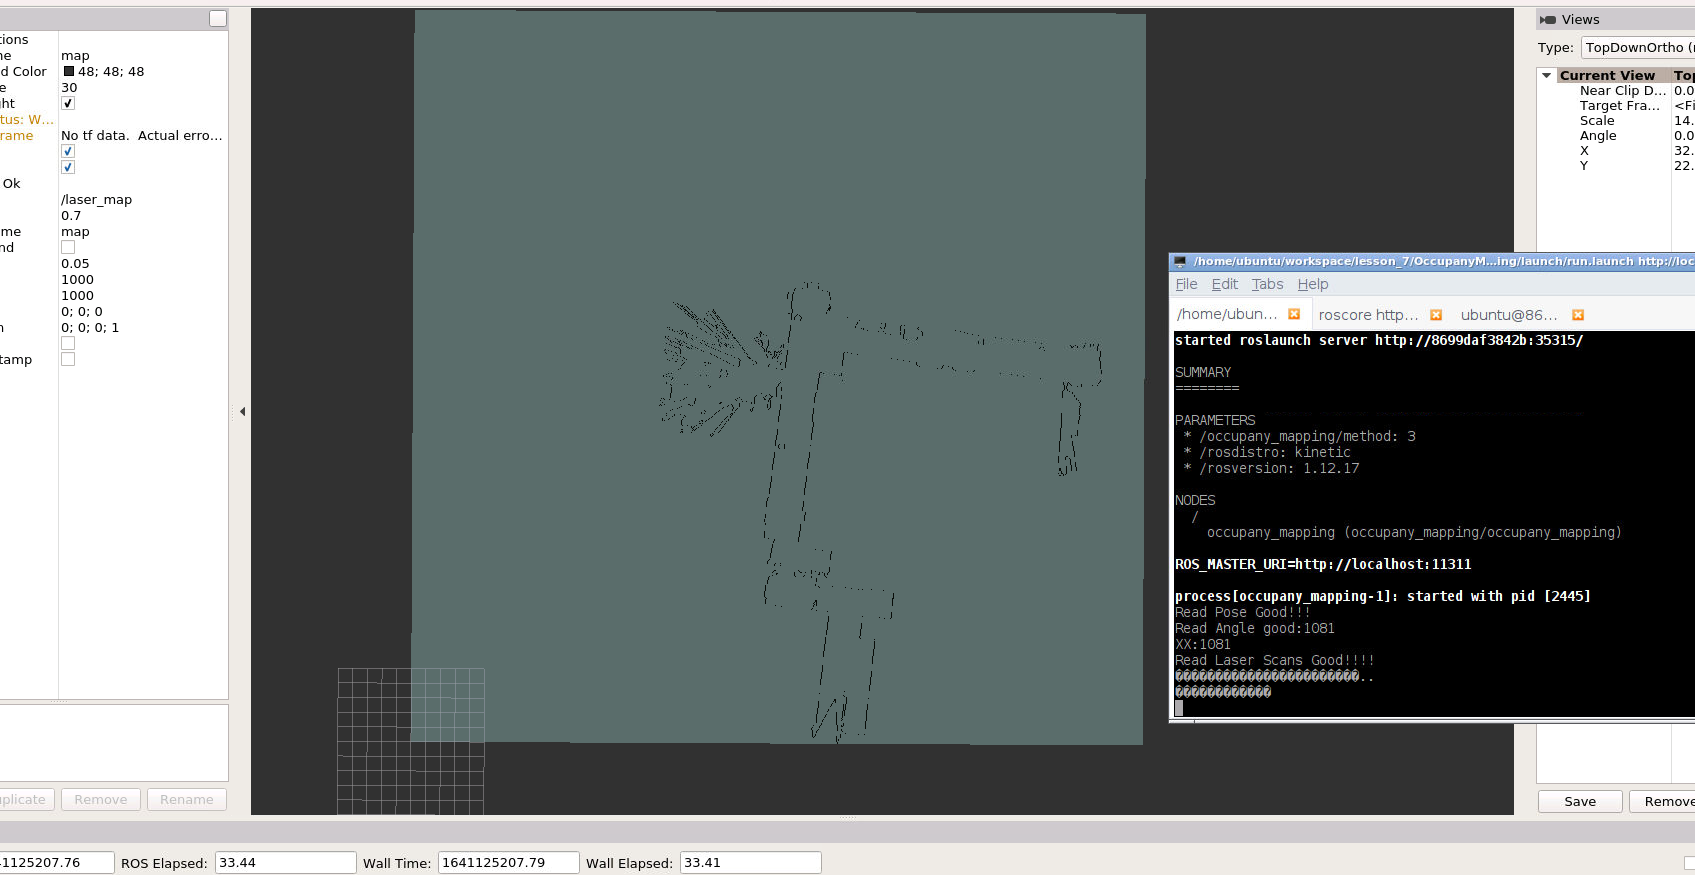
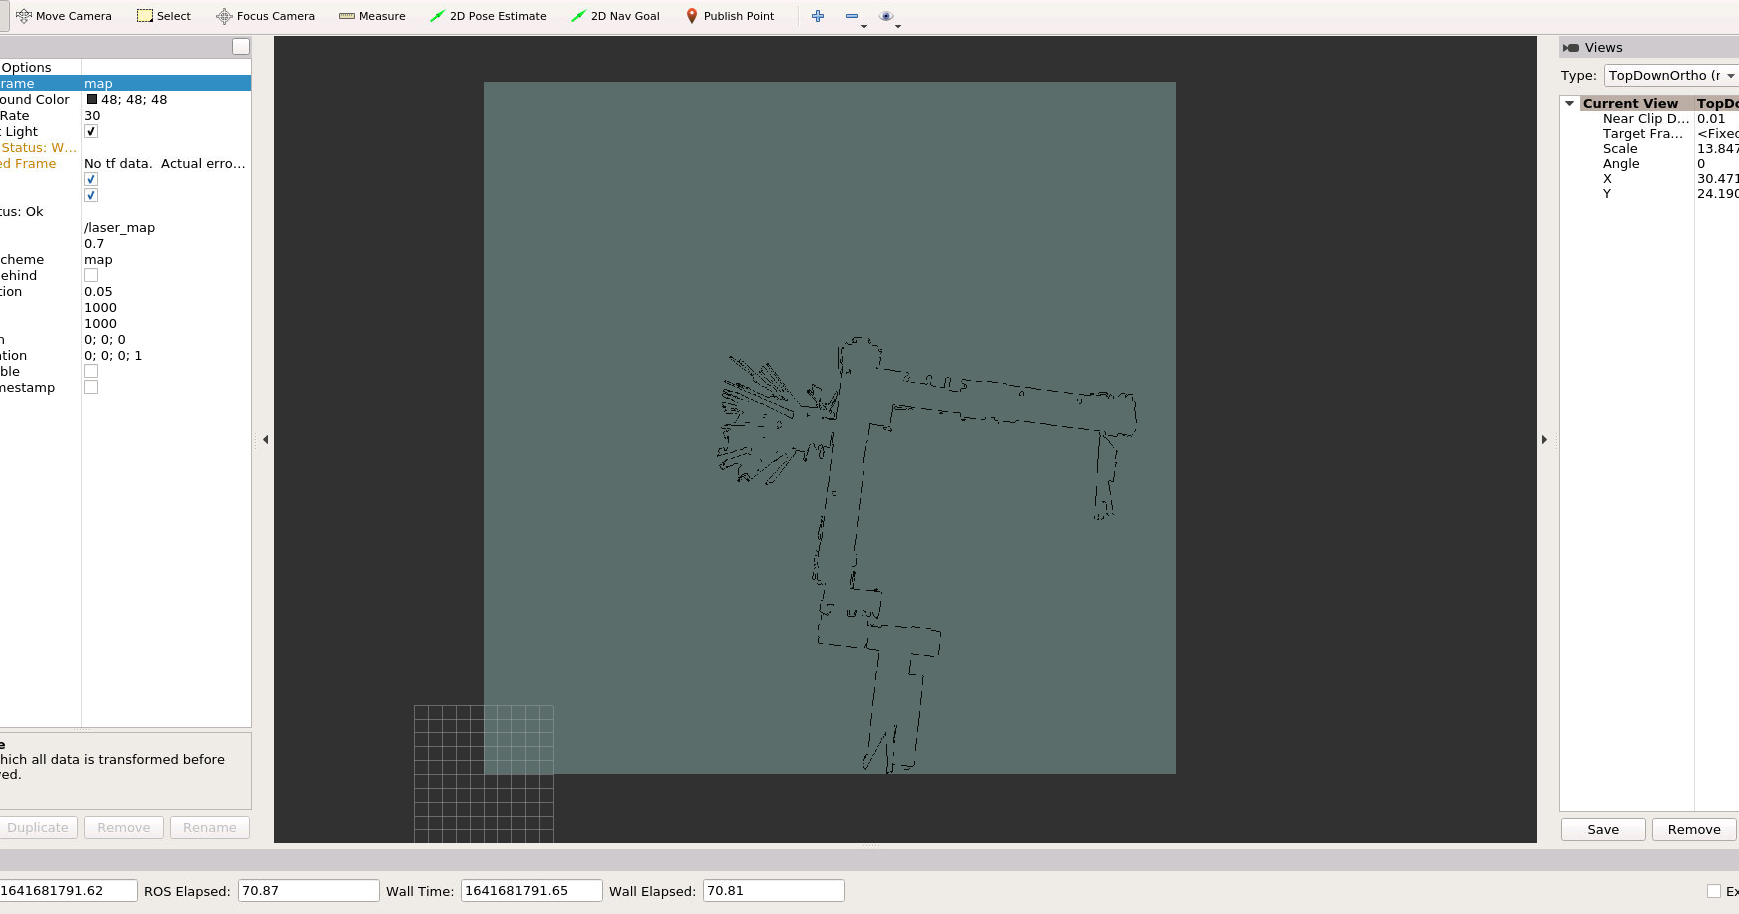
lesson 7 commit

diff --git a/workspace/lesson_7/OccupanyMappingProject/src/occupany_mapping/src/occupany_mapping.cpp b/workspace/lesson_7/OccupanyMappingProject/src/occupany_mapping/src/occupany_mapping.cpp
@@ -191,14 +191,14 @@ void OccupanyMapping(std::vector<GeneralLaserScan>& scans, std::vector<Eigen::Ve
             double world_y = sin(theta) * laser_x + cos(theta) * laser_y + robotPose(1);
 
             //TODO 对对应的map的cell信息进行更新．（1,2,3题内容）
-            GridIndex grid_x_y = ConvertWorld2GridIndex(world_x, world_y);
+            GridIndex grid_index = ConvertWorld2GridIndex(world_x, world_y);
 
-            if (isValidGridIndex(grid_x_y) == false)
+            if (!isValidGridIndex(grid_index))
                 continue;
 
-            GridIndex robotPose_grid = ConvertWorld2GridIndex(robotPose[0], robotPose[1]);
+            GridIndex robotPose_grid_index = ConvertWorld2GridIndex(robotPose[0], robotPose[1]);
 
-            std::vector<GridIndex> miss_grids = TraceLine(robotPose_grid.x, robotPose_grid.y, grid_x_y.x, grid_x_y.y);
+            std::vector<GridIndex> miss_grids = TraceLine(robotPose_grid_index.x, robotPose_grid_index.y, grid_index.x, grid_index.y);
 
             // method 1
             if (method == 1) {
@@ -206,13 +206,15 @@ void OccupanyMapping(std::vector<GeneralLaserScan>& scans, std::vector<Eigen::Ve
                     GridIndex tmpIndex = miss_grids[j];
                     int linear_index = GridIndexToLinearIndex(tmpIndex);
                     pMap[linear_index] += mapParams.log_free;
-                    pMap[linear_index] = std::max(mapParams.log_min, double(pMap[linear_index]));
+                    pMap[linear_index] = (pMap[linear_index] < mapParams.log_min ? mapParams.log_min : pMap[linear_index]);
+                    // pMap[linear_index] = std::max(mapParams.log_min, double(pMap[linear_index]));
                 }
 
                 //更新被击中的点
-                int linear_index = GridIndexToLinearIndex(grid_x_y);
+                int linear_index = GridIndexToLinearIndex(grid_index);
                 pMap[linear_index] += mapParams.log_occ;
-                pMap[linear_index] = std::min(mapParams.log_max, double(pMap[linear_index]));
+                pMap[linear_index] = (pMap[linear_index] > mapParams.log_max ? mapParams.log_max : pMap[linear_index]);
+                // pMap[linear_index] = std::min(mapParams.log_max, double(pMap[linear_index]));
             }
 
             // method2
@@ -225,18 +227,16 @@ void OccupanyMapping(std::vector<GeneralLaserScan>& scans, std::vector<Eigen::Ve
                 }
 
                 //更新被击中的点
-                int linear_index = GridIndexToLinearIndex(grid_x_y);
+                int linear_index = GridIndexToLinearIndex(grid_index);
                 pMapHits[linear_index]++;
             }
 
             // * method 3
             if (method == 3) {
-                // tsdf 截断距离
-                double cut_off_dis = 2 * mapParams.resolution;
-                double far_dis;
+                double t = 2 * mapParams.resolution;  // cut off distance
 
-                // 计算远点
-                far_dis = dist + 3 * cut_off_dis;
+                // calculate far point
+                double far_dis = dist + 3 * mapParams.resolution;
 
                 double far_laser_x = far_dis * cos(angle);
                 double far_laser_y = far_dis * sin(angle);
@@ -244,53 +244,44 @@ void OccupanyMapping(std::vector<GeneralLaserScan>& scans, std::vector<Eigen::Ve
                 double far_world_x = cos(theta) * far_laser_x - sin(theta) * far_laser_y + robotPose(0);
                 double far_world_y = sin(theta) * far_laser_x + cos(theta) * far_laser_y + robotPose(1);
 
-                GridIndex far_grid_x_y = ConvertWorld2GridIndex(far_world_x, far_world_y);
+                GridIndex far_grid_index = ConvertWorld2GridIndex(far_world_x, far_world_y);
 
                 std::vector<GridIndex> near_grids;
-                // 如果增加的距离是远点超出地图范围，那么就是用激光点作为远点
-                if (isValidGridIndex(far_grid_x_y) == false) {
-                    near_grids = TraceLine(robotPose_grid.x, robotPose_grid.y, grid_x_y.x, grid_x_y.y);
+
+                if (isValidGridIndex(far_grid_index) == false) {
+                    near_grids = TraceLine(robotPose_grid_index.x, robotPose_grid_index.y, grid_index.x, grid_index.y);
                 }
                 else {
-                    near_grids = TraceLine(robotPose_grid.x, robotPose_grid.y, far_grid_x_y.x, far_grid_x_y.y);
+                    near_grids = TraceLine(robotPose_grid_index.x, robotPose_grid_index.y, far_grid_index.x, far_grid_index.y);
                 }
 
-                // 更新laser_dist附近的栅格
                 for (size_t j = 0; j < near_grids.size(); j++) {
                     GridIndex tmpIndex = near_grids[j];
-                    double grid_dis = sqrt(pow(tmpIndex.x - robotPose_grid.x, 2) + pow(tmpIndex.y - robotPose_grid.y, 2));
+                    double grid_dis = sqrt(pow(tmpIndex.x - robotPose_grid_index.x, 2) + pow(tmpIndex.y - robotPose_grid_index.y, 2));
 
-                    // 从gridmap尺度转化为实际地图尺度
                     grid_dis *= mapParams.resolution;
 
-                    // 计算tsdf
-                    double tsdf = std::max(-1.0, std::min(1.0, (dist - grid_dis) / cut_off_dis));
+                    double tsdf = std::max(-1.0, std::min(1.0, (dist - grid_dis) / t));
 
                     int linearIndex = GridIndexToLinearIndex(tmpIndex);
 
-                    // 更新TSDF
                     pMapTSDF[linearIndex] = (pMapW[linearIndex] * pMapTSDF[linearIndex] + tsdf) / (pMapW[linearIndex] + 1);
                     pMapW[linearIndex] += 1;
-                    // cout << "sdf: " << dist - grid_dis << endl;
-                    // cout << "tsdf:     " << tsdf << endl;
-                    // cout << "grid_dis: " << grid_dis << endl;
                 }
-                // cout << "laser_dis: " << dist << endl;
-                // cout << "----------" << endl;
             }
             //end of TODO
         }
     }
     //TODO 通过计数建图算法或TSDF算法对栅格进行更新（2,3题内容）
+    static double ratio_threshold = 0.3;
     if (method == 2) {
-        for (int i = 0; i < mapParams.width * mapParams.height; i++) {
-            if (pMapHits[i] + pMapMisses[i] == 0) {
+        for (int i = 0; i < mapParams.width * mapParams.height; ++i) {
+            int sum = pMapHits[i] + pMapMisses[i];
+            if (sum == 0) {
                 pMap[i] = 50;
                 continue;
             }
-
-            double ratio = pMapHits[i] * 1.0 / (pMapHits[i] + pMapMisses[i]);
-            double ratio_threshold = 0.3;
+            double ratio = double(pMapHits[i]) / sum;
 
             if (ratio > ratio_threshold) {
                 pMap[i] = 100;
@@ -302,47 +293,29 @@ void OccupanyMapping(std::vector<GeneralLaserScan>& scans, std::vector<Eigen::Ve
     }
 
     if (method == 3) {
-        // BFS查找边界
-        int* pMapIsAccessed = new int[mapParams.width * mapParams.height];
-        std::vector<std::pair<int, int>> directions = { { 1, 0 }, { 0, 1 }, { -1, 0 }, { 0, -1 } };
-        std::queue<GridIndex> q;
-        GridIndex tmp_grid = GridIndex();
-        tmp_grid.x = 0;
-        tmp_grid.y = 0;
-        q.push(tmp_grid);
-
-        while (!q.empty()) {
-            int size = q.size();
-            for (size_t i = 0; i < size; i++) {
-                GridIndex node = q.front();
-                q.pop();
-                for (size_t k = 0; k < 4; k++) {
-                    std::pair<int, int> dir = directions[k];
-                    int tmpx = node.x + dir.first;
-                    int tmpy = node.y + dir.second;
-                    int linearIndex = tmpy + tmpx * mapParams.width;
-                    int centerIndex = node.y + node.x * mapParams.width;
-
-                    if (tmpx >= 0 && tmpx < mapParams.height && tmpy >= 0 && tmpy < mapParams.width && pMapIsAccessed[linearIndex] == 0) {
-                        // 对于边界点的处理
-                        if (pMapTSDF[linearIndex] * pMapTSDF[centerIndex] < 0) {
-                            // 选择pMapTSDF绝对值较小的一个栅格，认为是障碍物所在的栅格
-                            if (abs(pMapTSDF[linearIndex]) < abs(pMapTSDF[centerIndex])) {
-                                pMap[linearIndex] = 100;
+        std::vector<std::pair<int, int>> boundaries{ {0, 1}, {0, -1}, {-1, 0}, {1, 0} };
+        for (int i = 0; i < mapParams.width; ++i) {
+            for (int j = 0; j < mapParams.height; ++j) {
+                GridIndex centerIndex;
+                centerIndex.SetIndex(i, j);
+                int center_linearIndex = GridIndexToLinearIndex(centerIndex);
+                for (auto& boundary : boundaries) {
+                    GridIndex boundaryIndex;
+                    boundaryIndex.SetIndex(i + boundary.first, j + boundary.second);
+                    if (isValidGridIndex(boundaryIndex)) {
+                        int boundary_linearIndex = GridIndexToLinearIndex(boundaryIndex);
+                        if (pMapTSDF[center_linearIndex] * pMapTSDF[boundary_linearIndex] < 0) {
+                            if (abs(pMapTSDF[center_linearIndex] < abs(pMapTSDF[boundary_linearIndex]))) {
+                                pMap[center_linearIndex] = 100;
                             }
                             else {
-                                pMap[centerIndex] = 100;
+                                pMap[boundary_linearIndex] = 100;
                             }
                         }
-                        // 访问过的点不再进行访问
-                        pMapIsAccessed[linearIndex] = 1;
-                        tmp_grid.x = tmpx;
-                        tmp_grid.y = tmpy;
-                        q.push(tmp_grid);
                     }
                 }
-            }
 
+            }
         }
     }
     //end of TODO

diff --git a/workspace/lesson_7/README.md b/workspace/lesson_7/README.md
@@ -1,0 +1,196 @@
+# Task 1
+
+### Code
+
+```c++
+            //TODO 对对应的map的cell信息进行更新．（1,2,3题内容）
+            GridIndex grid_index = ConvertWorld2GridIndex(world_x, world_y);
+
+            if (!isValidGridIndex(grid_index))
+                continue;
+
+            GridIndex robotPose_grid_index = ConvertWorld2GridIndex(robotPose[0], robotPose[1]);
+
+            std::vector<GridIndex> miss_grids = TraceLine(robotPose_grid_index.x, robotPose_grid_index.y, grid_index.x, grid_index.y);
+
+            // method 1
+            if (method == 1) {
+                for (size_t j = 0; j < miss_grids.size(); j++) {
+                    GridIndex tmpIndex = miss_grids[j];
+                    int linear_index = GridIndexToLinearIndex(tmpIndex);
+                    pMap[linear_index] += mapParams.log_free;
+                    pMap[linear_index] = (pMap[linear_index] < mapParams.log_min ? mapParams.log_min : pMap[linear_index]);
+                    // pMap[linear_index] = std::max(mapParams.log_min, double(pMap[linear_index]));
+                }
+
+                //更新被击中的点
+                int linear_index = GridIndexToLinearIndex(grid_index);
+                pMap[linear_index] += mapParams.log_occ;
+                pMap[linear_index] = (pMap[linear_index] > mapParams.log_max ? mapParams.log_max : pMap[linear_index]);
+                // pMap[linear_index] = std::min(mapParams.log_max, double(pMap[linear_index]));
+            }
+```
+
+
+
+### Result
+
+备注：初始化地图pMap值都为50
+
+![task1](method1.png)
+
+# Task 2
+
+### Code
+
+```c++
+            // method2
+            if (method == 2) {
+                // 更新被经过的点
+                for (size_t j = 0; j < miss_grids.size(); j++) {
+                    GridIndex tmpIndex = miss_grids[j];
+                    int linear_index = GridIndexToLinearIndex(tmpIndex);
+                    pMapMisses[linear_index]++;
+                }
+
+                //更新被击中的点
+                int linear_index = GridIndexToLinearIndex(grid_index);
+                pMapHits[linear_index]++;
+            }
+```
+
+未经过区域：50
+
+穿过区域：0
+
+击中区域：100
+
+```c++
+    //TODO 通过计数建图算法或TSDF算法对栅格进行更新（2,3题内容）
+    static double ratio_threshold = 0.3;
+    if (method == 2) {
+        for (int i = 0; i < mapParams.width * mapParams.height; ++i) {
+            int sum = pMapHits[i] + pMapMisses[i];
+            if (sum == 0) {
+                pMap[i] = 50;
+                continue;
+            }
+            double ratio = double(pMapHits[i]) / sum;
+
+            if (ratio > ratio_threshold) {
+                pMap[i] = 100;
+            }
+            else if (ratio <= ratio_threshold) {
+                pMap[i] = 0;
+            }
+        }
+    }
+```
+
+
+
+
+
+### Result
+
+![task2](method2.png)
+
+# Task 3
+
+### Code
+
+考虑激光打中点后的far_point，多加三个像素
+
+```c++
+            // * method 3
+            if (method == 3) {
+                double t = 2 * mapParams.resolution;  // cut off distance
+
+                // calculate far point
+                double far_dis = dist + 3 * mapParams.resolution;
+
+                double far_laser_x = far_dis * cos(angle);
+                double far_laser_y = far_dis * sin(angle);
+
+                double far_world_x = cos(theta) * far_laser_x - sin(theta) * far_laser_y + robotPose(0);
+                double far_world_y = sin(theta) * far_laser_x + cos(theta) * far_laser_y + robotPose(1);
+
+                GridIndex far_grid_index = ConvertWorld2GridIndex(far_world_x, far_world_y);
+
+                std::vector<GridIndex> near_grids;
+
+                if (isValidGridIndex(far_grid_index) == false) {
+                    near_grids = TraceLine(robotPose_grid_index.x, robotPose_grid_index.y, grid_index.x, grid_index.y);
+                }
+                else {
+                    near_grids = TraceLine(robotPose_grid_index.x, robotPose_grid_index.y, far_grid_index.x, far_grid_index.y);
+                }
+
+                for (size_t j = 0; j < near_grids.size(); j++) {
+                    GridIndex tmpIndex = near_grids[j];
+                    double grid_dis = sqrt(pow(tmpIndex.x - robotPose_grid_index.x, 2) + pow(tmpIndex.y - robotPose_grid_index.y, 2));
+
+                    grid_dis *= mapParams.resolution;
+
+                    double tsdf = std::max(-1.0, std::min(1.0, (dist - grid_dis) / t));
+
+                    int linearIndex = GridIndexToLinearIndex(tmpIndex);
+
+                    pMapTSDF[linearIndex] = (pMapW[linearIndex] * pMapTSDF[linearIndex] + tsdf) / (pMapW[linearIndex] + 1);
+                    pMapW[linearIndex] += 1;
+                }
+
+```
+
+
+
+对map进行更新，对地图进行遍历
+
+```c++
+    if (method == 3) {
+        std::vector<std::pair<int, int>> boundaries{ {0, 1}, {0, -1}, {-1, 0}, {1, 0} };
+        for (int i = 0; i < mapParams.width; ++i) {
+            for (int j = 0; j < mapParams.height; ++j) {
+                GridIndex centerIndex;
+                centerIndex.SetIndex(i, j);
+                int center_linearIndex = GridIndexToLinearIndex(centerIndex);
+                for (auto& boundary : boundaries) {
+                    GridIndex boundaryIndex;
+                    boundaryIndex.SetIndex(i + boundary.first, j + boundary.second);
+                    if (isValidGridIndex(boundaryIndex)) {
+                        int boundary_linearIndex = GridIndexToLinearIndex(boundaryIndex);
+                        if (pMapTSDF[center_linearIndex] * pMapTSDF[boundary_linearIndex] < 0) {
+                            if (abs(pMapTSDF[center_linearIndex] < abs(pMapTSDF[boundary_linearIndex]))) {
+                                pMap[center_linearIndex] = 100;
+                            }
+                            else {
+                                pMap[boundary_linearIndex] = 100;
+                            }
+                        }
+                    }
+                }
+
+            }
+        }
+    }
+
+```
+
+
+
+
+
+### Result
+
+![task3](method3.png)
+
+
+
+# Task4
+
+|              | 优点                                                         | 缺点                                                         |
+| ------------ | ------------------------------------------------------------ | ------------------------------------------------------------ |
+| 覆盖栅格建图 | 不需要额外一次整体更新，只需要一次加法                       | 边界不一定能累积到max值，且中间区域显示为噪点。最好加上一个后续处理。 |
+| 计数建图     | 实现简单                                                     | 内存占用两个变量Hits和Misses                                 |
+| TSDF         | 1. 假设了高斯分布的噪声 2. 地图边缘只有一个像素厚度 3. 可以插值得到具体位置，不局限于分辨率 | 无法区分未探索区域和穿过区域；不适用非高斯分布；计算量较大   |
+
